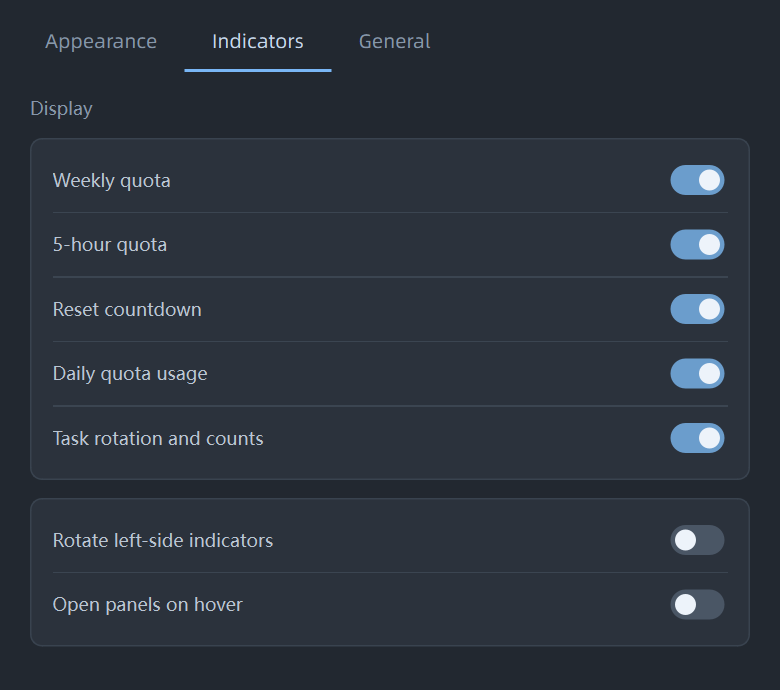
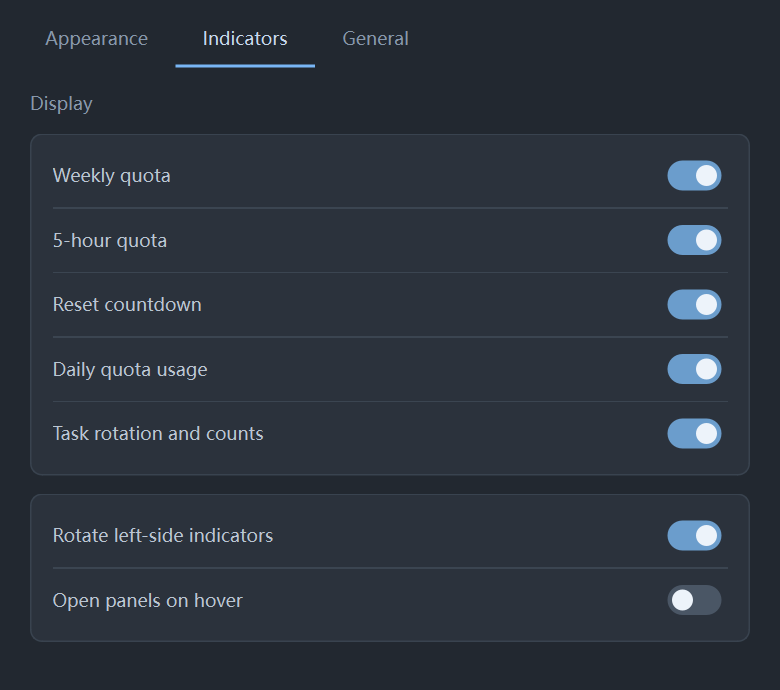
chore(release): prepare 0.6.1 interaction refinement
Include the corrected switch contract, whole-product interaction fixes, current settings example, and the unreleased statistics/input-attention improvements.

Validation: 216 tests and native UI render review; packaging and installed upgrade checks follow before publication.

diff --git a/codex_taskbar/build_info.py b/codex_taskbar/build_info.py
@@ -1,4 +1,4 @@
-VERSION = "0.6.0"
+VERSION = "0.6.1"
 APP_NAME = "Codex Taskbar Companion"
 # Set to the public owner/repository before building a published installer.
 RELEASE_REPOSITORY = "dicksick22046/codex-taskbar-companion"

diff --git a/CHANGELOG.md b/CHANGELOG.md
@@ -4,6 +4,8 @@
 
 ## Unreleased
 
+## 0.6.1
+
 - Restrict setting changes to the switch itself; labels and row whitespace no longer toggle preferences.
 - Commit unit, task and menu actions on release, cancel when dragged away, and keep the held task stable during rotation.
 - Prevent passive scrolling from changing settings or task filters; support precision scrolling in popovers.

diff --git a/docs/i18n/CHANGELOG.zh-CN.md b/docs/i18n/CHANGELOG.zh-CN.md
@@ -4,6 +4,8 @@
 
 ## Unreleased
 
+## 0.6.1
+
 - 设置仅点击开关才修改，点击说明和行内空白不再误触。
 - 单位、任务和菜单在松开时执行，拖离可取消；按住任务时固定内容，避免轮换错点。
 - 滚轮不再意外更改设置或任务筛选，面板支持触控板精细滚动。
